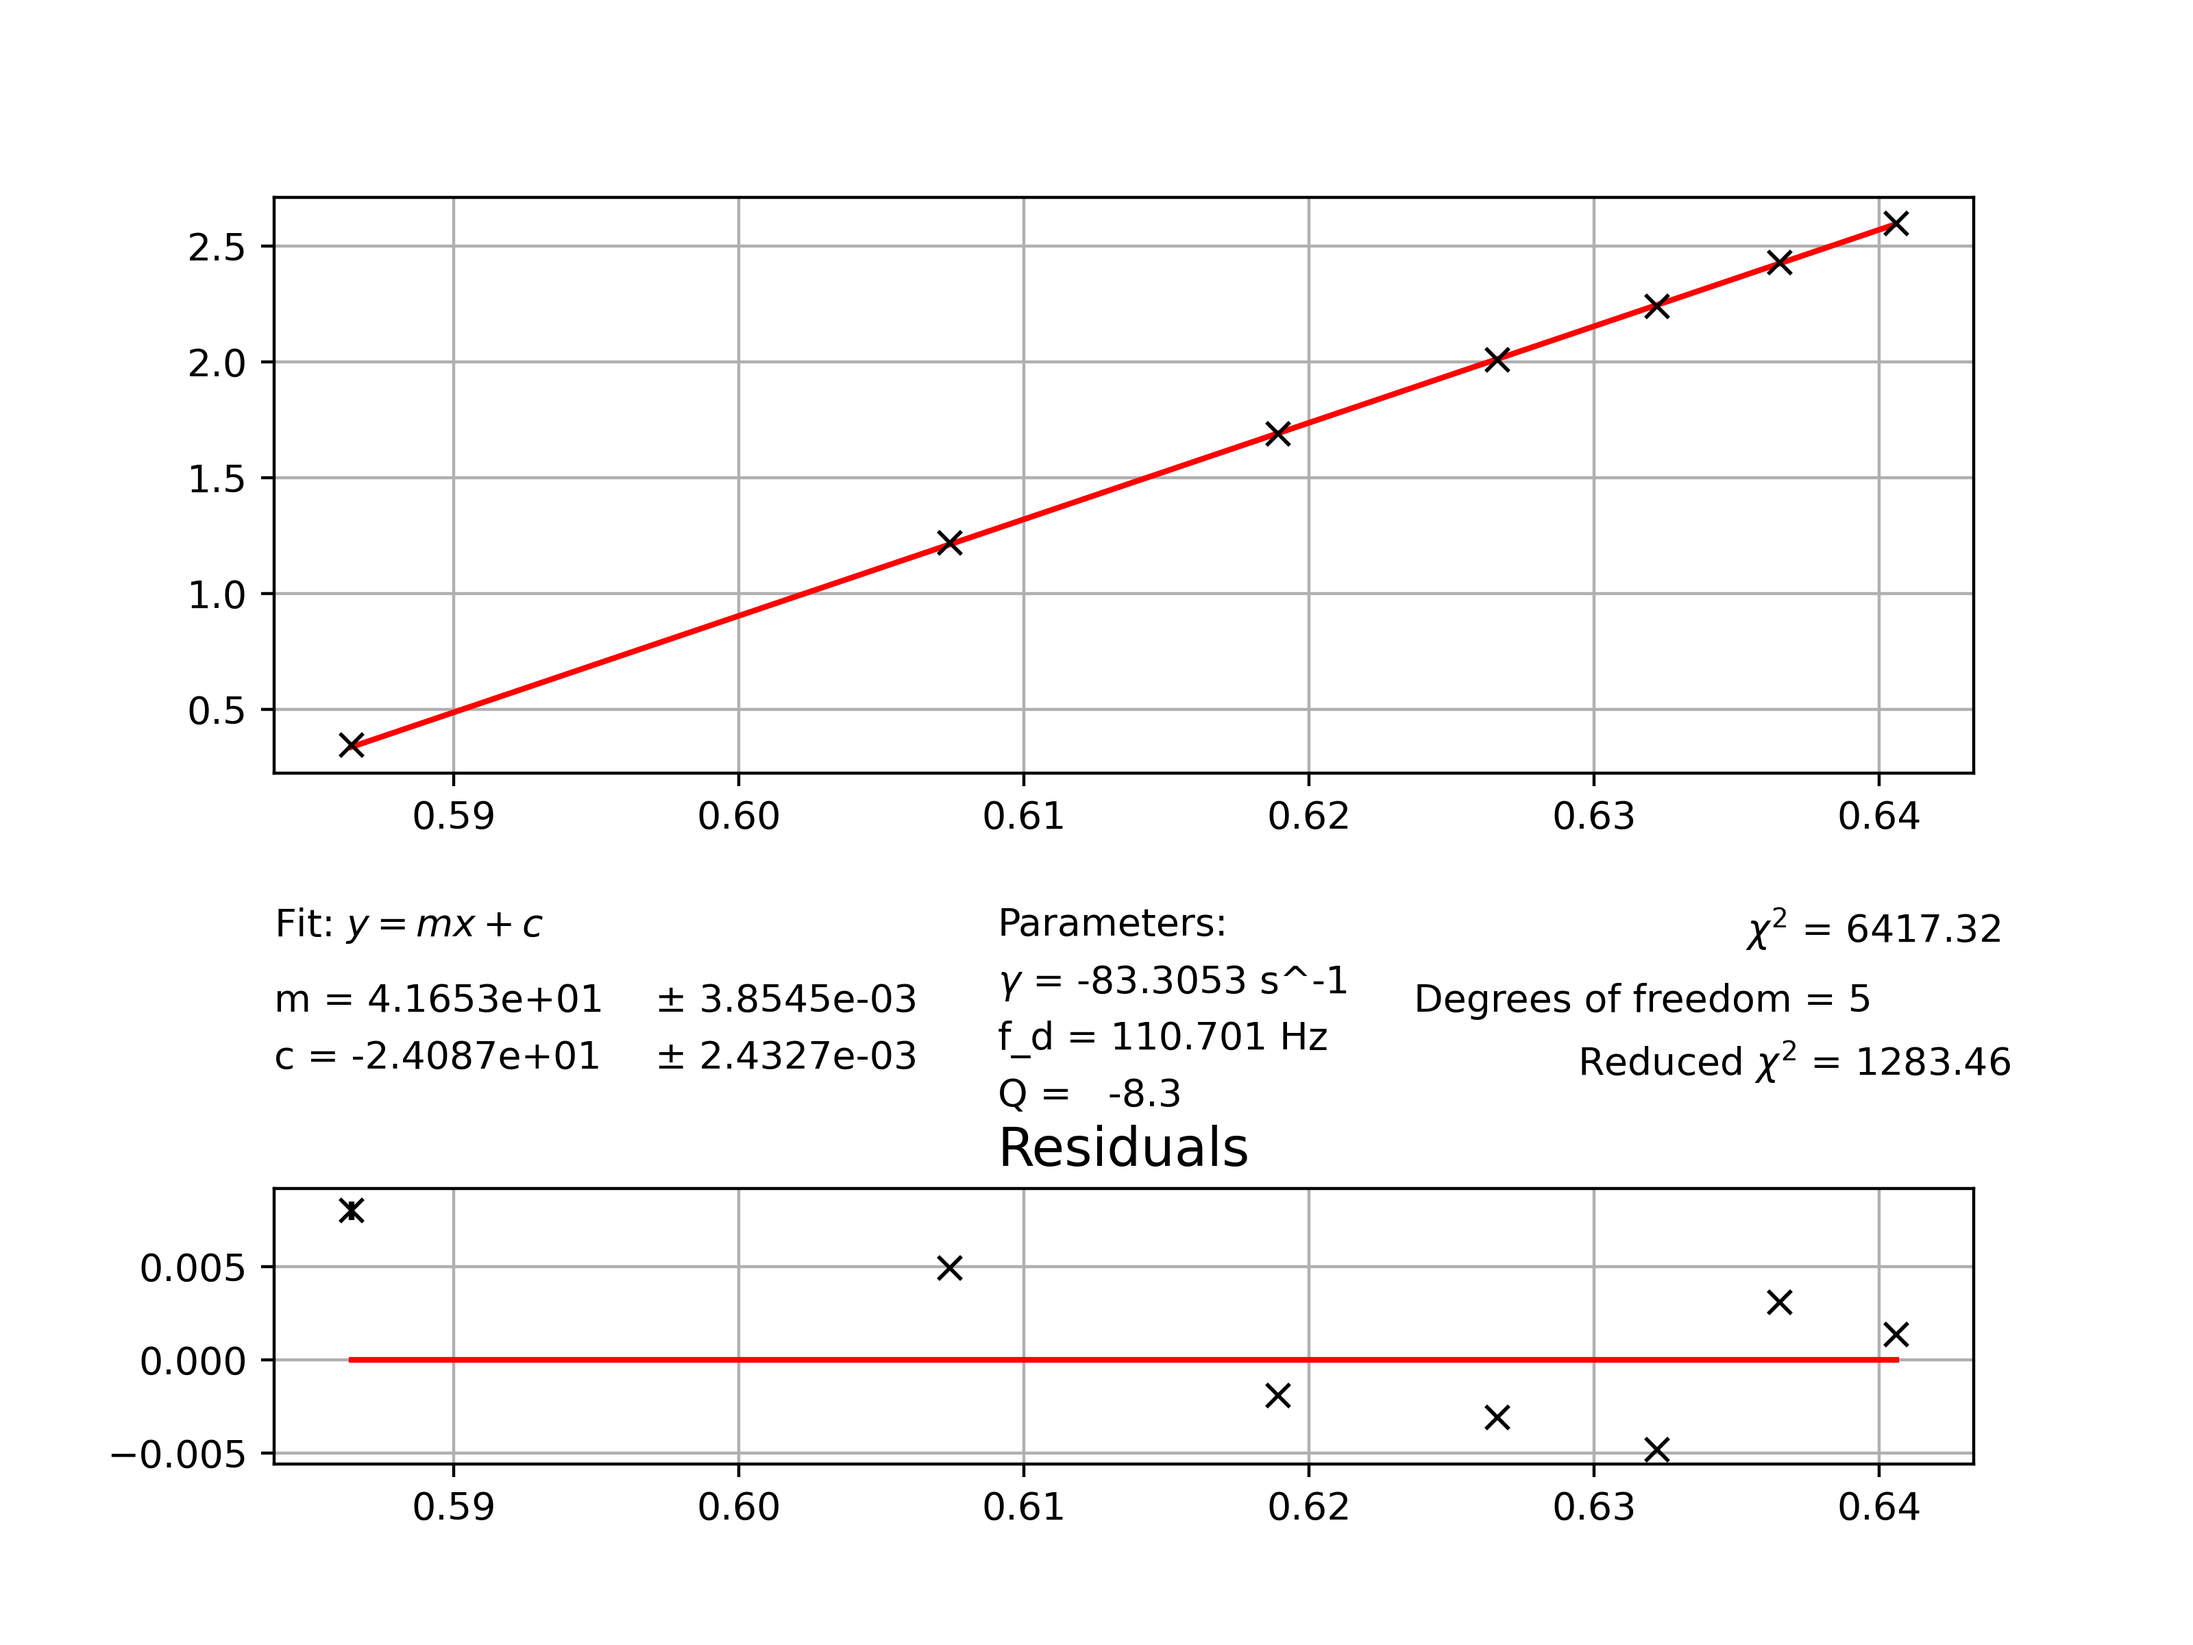
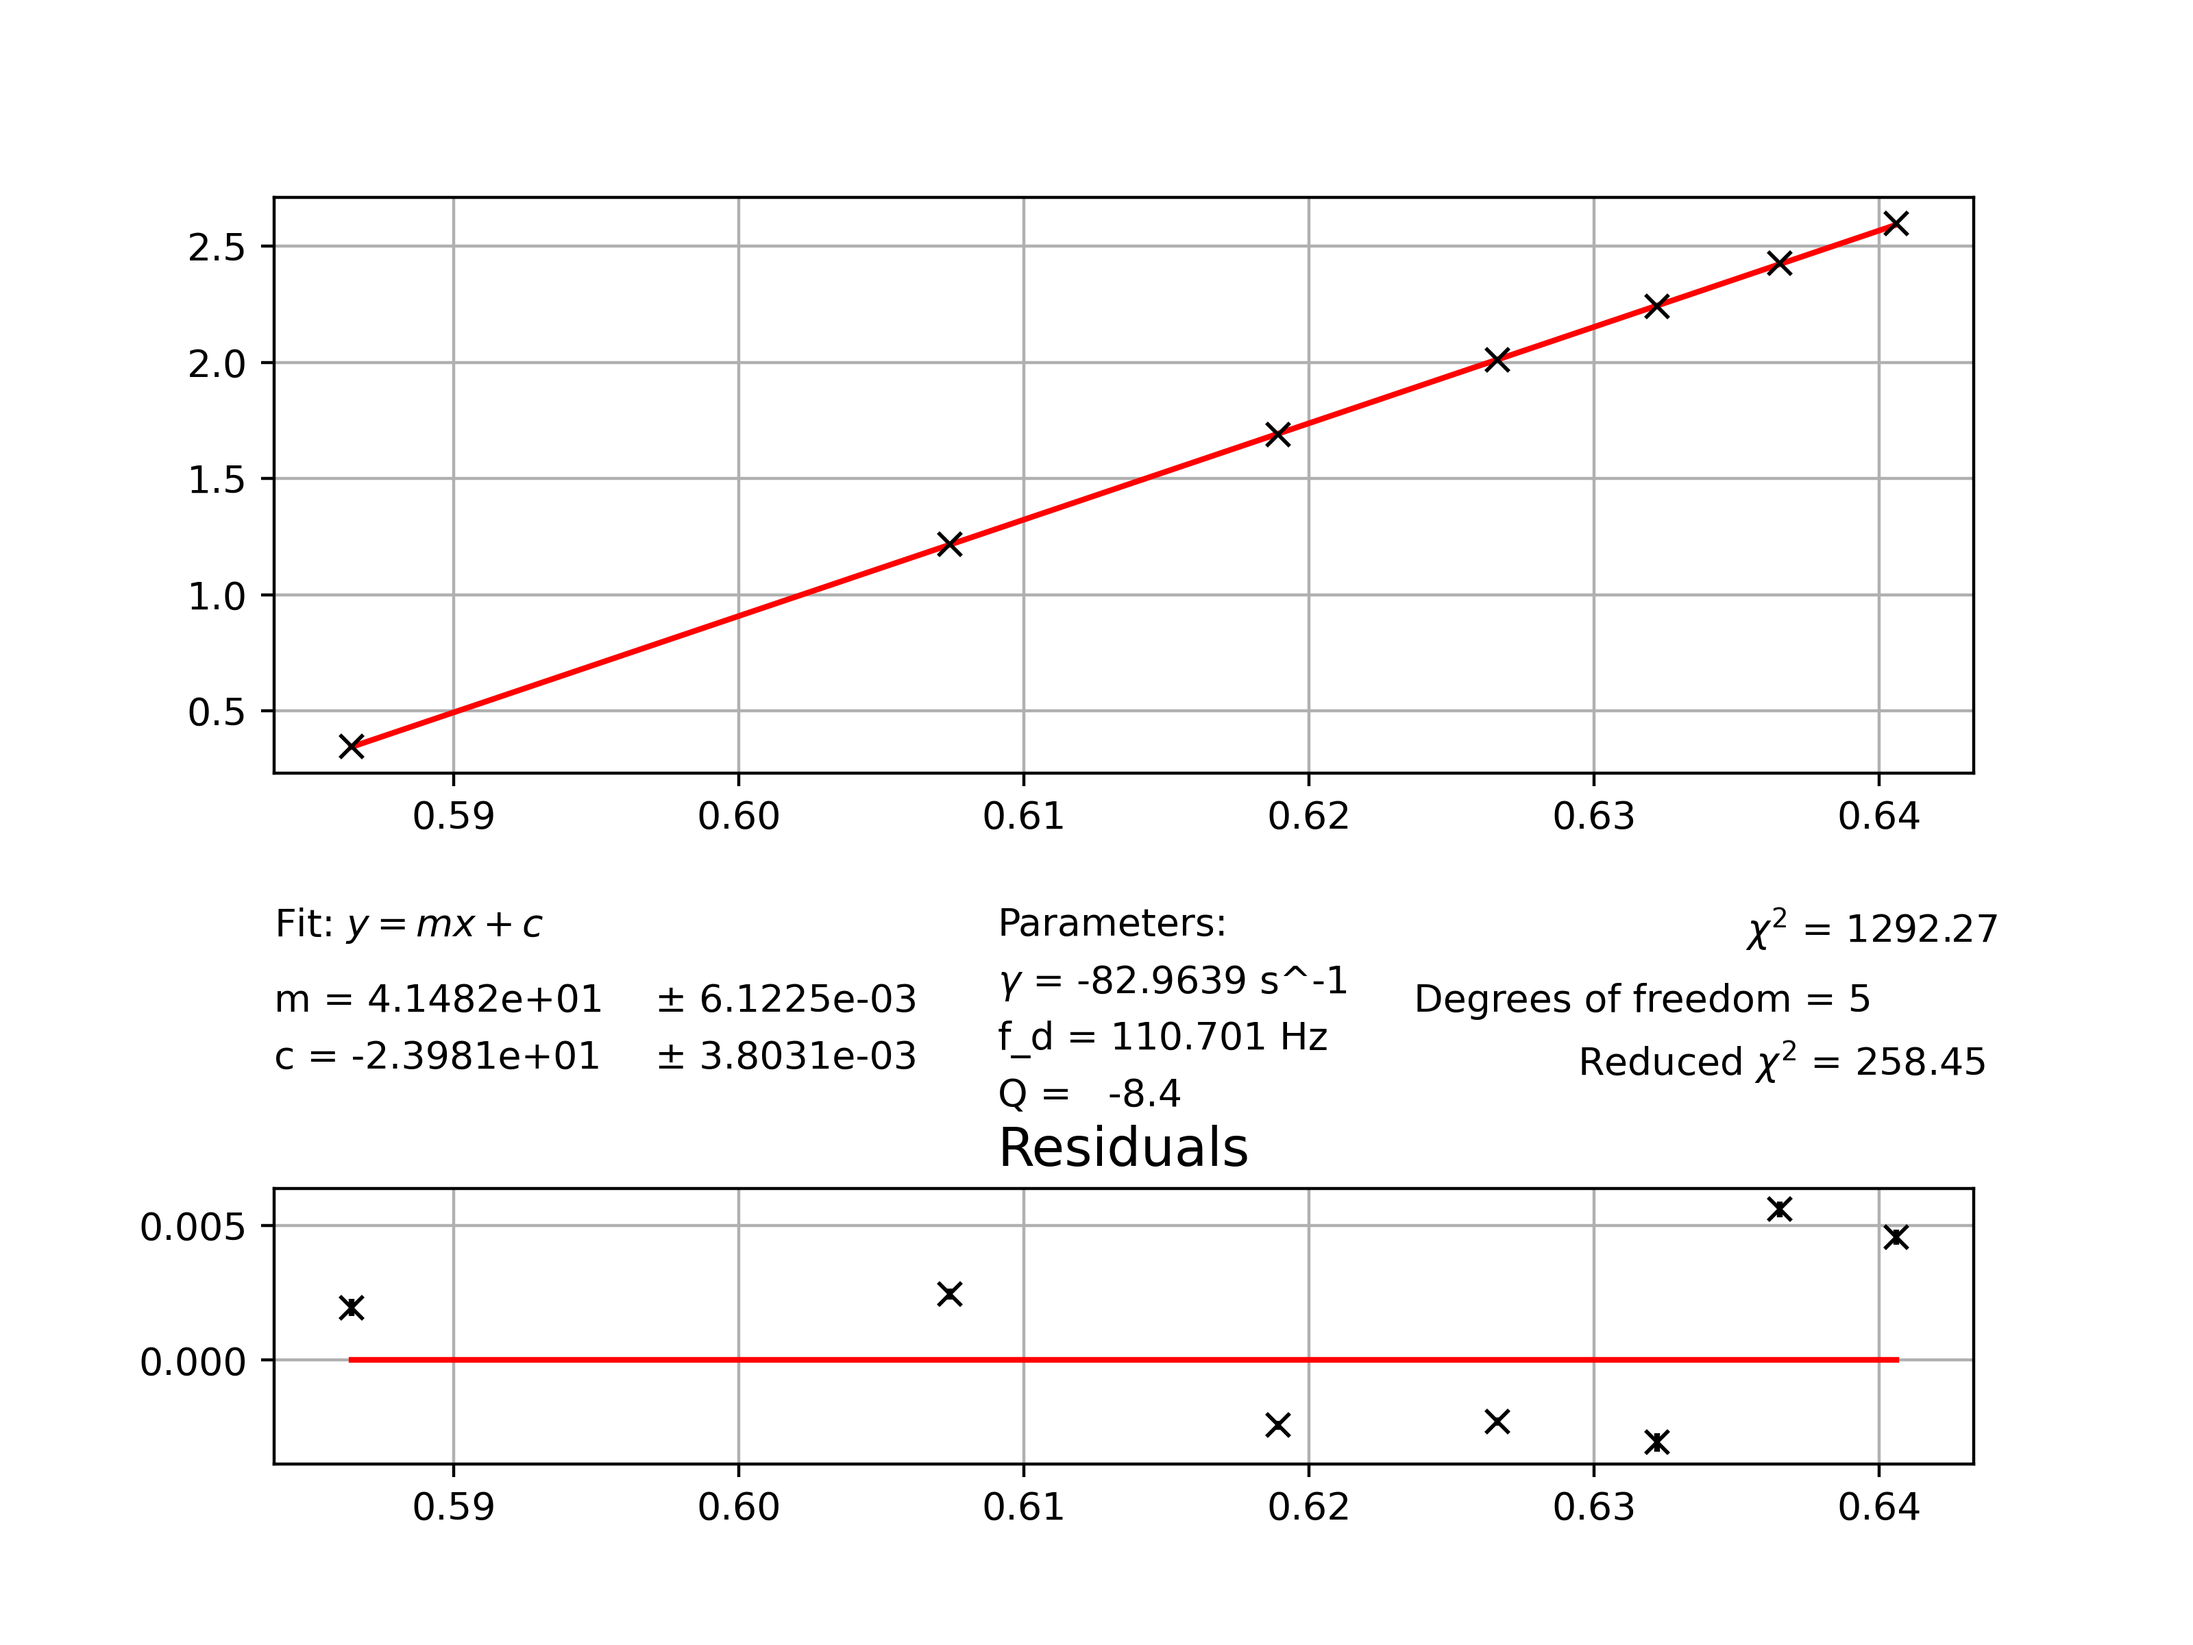
instrument error corrected

diff --git a/boltzmann/process_data.py b/boltzmann/process_data.py
@@ -8,9 +8,16 @@ fileList = [f for f in glob.glob('data/*.csv') if '_processed' not in f]
 for fileName in fileList:
     data = pd.read_csv(fileName, usecols=[0,1,2,3], names=['supply_voltage', 'supply_voltage_error', 'diode_voltage', 'diode_voltage_error'], header=None, sep='\t')
     supply_voltage = data['supply_voltage'].to_numpy()
-    supply_voltage_error = data['supply_voltage_error'].to_numpy()
     diode_voltage = data['diode_voltage'].to_numpy()
-    diode_voltage_error = data['diode_voltage_error'].to_numpy()
+
+    # errors from specs on this data sheet: https://www.tek.com/en/datasheet/broad-purpose-digital-multimeters/model-2110-5-1-2-digit-dual-display-digital-multimeter
+    # 0.012% of reading + 0.001% of full scale (1 V) for the diode voltage
+    diode_voltage_error = (diode_voltage * 0.00012) + (1.0 * 0.00001)
+
+    # the meter auto ranges at 10V
+    supply_voltage_range = np.where(supply_voltage <= 10.0, 10.0, 100.0)
+    # 0.012% of reading + 0.002% of full scale for the supply voltage
+    supply_voltage_error = (supply_voltage * 0.00012) + (supply_voltage_range * 0.00002)
 
     # match fileName[-8:-5]:
     #     case '001':

diff --git a/boltzmann/truncate-csvs.py b/boltzmann/truncate-csvs.py
@@ -8,11 +8,11 @@ def truncate_csvs(lines_to_remove=8):
     ignore = []
 
     # Create the target directory if it doesn't exist
-    output_dir = 'truncated'
+    output_dir = 'data/truncated'
     os.makedirs(output_dir, exist_ok=True)
     
-    # Find all CSV files in the current directory
-    csv_files = glob.glob("*.csv")
+    # Find all CSV files in the data directory
+    csv_files = glob.glob("data/*_processed.csv")
     
     if not csv_files:
         print("No CSV files found in this directory.")
@@ -36,8 +36,8 @@ def truncate_csvs(lines_to_remove=8):
             print(f"Skipping {file}: Only has {len(lines)} lines.")
             continue
             
-        # Save the new file into the subdirectory
-        output_path = os.path.join(output_dir, file)
+        # Save the new file into the subdirectory (use basename to avoid nested paths)
+        output_path = os.path.join(output_dir, os.path.basename(file))
         with open(output_path, 'w', encoding='utf-8') as f:
             f.writelines(truncated_lines)
             
